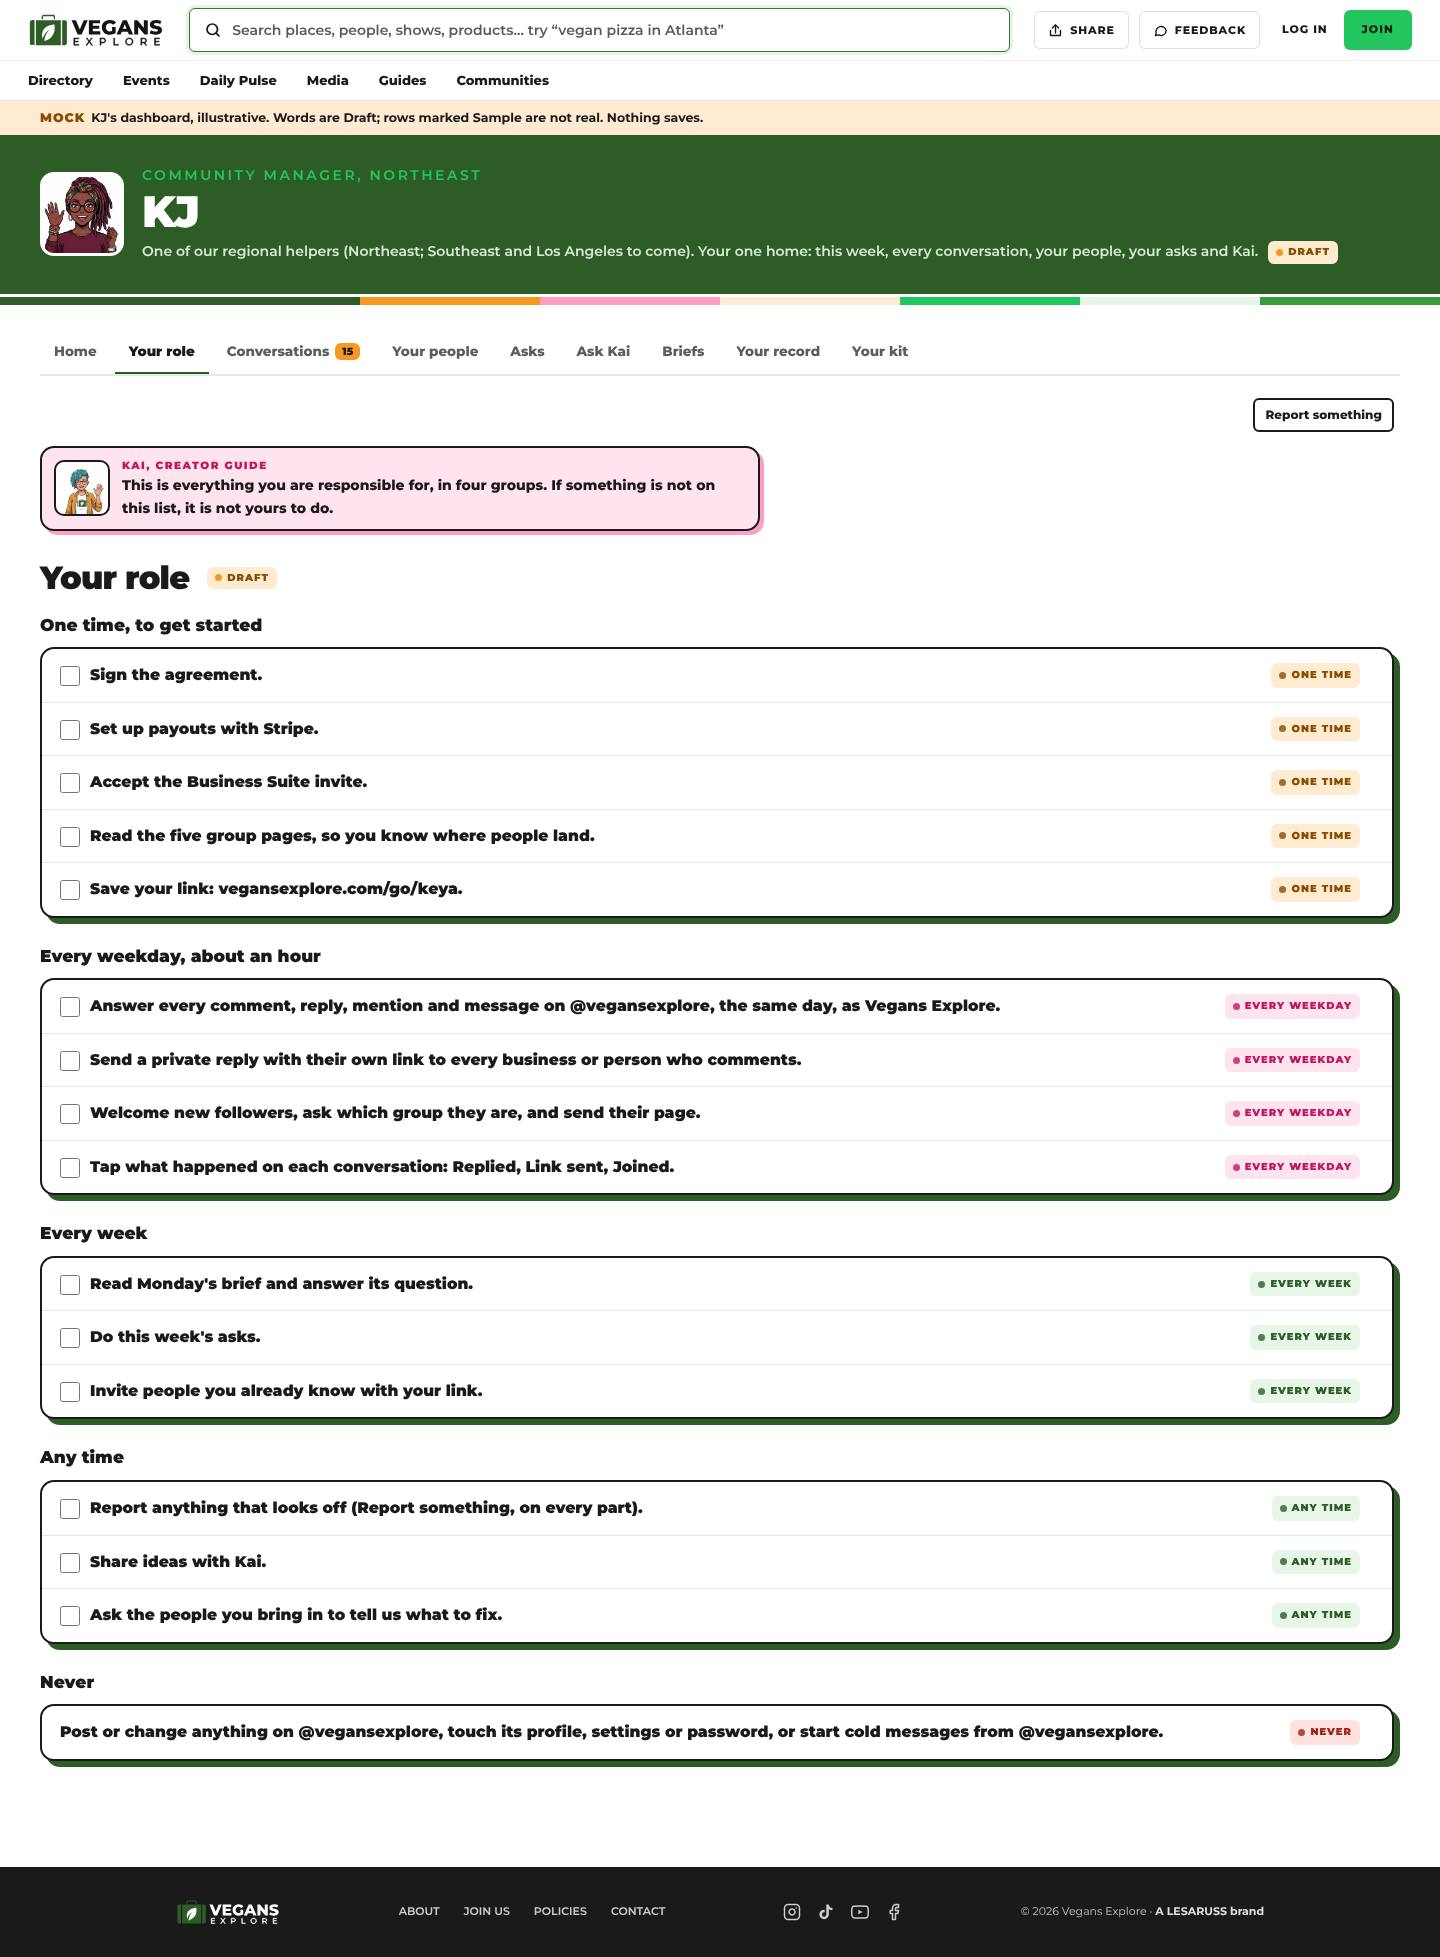
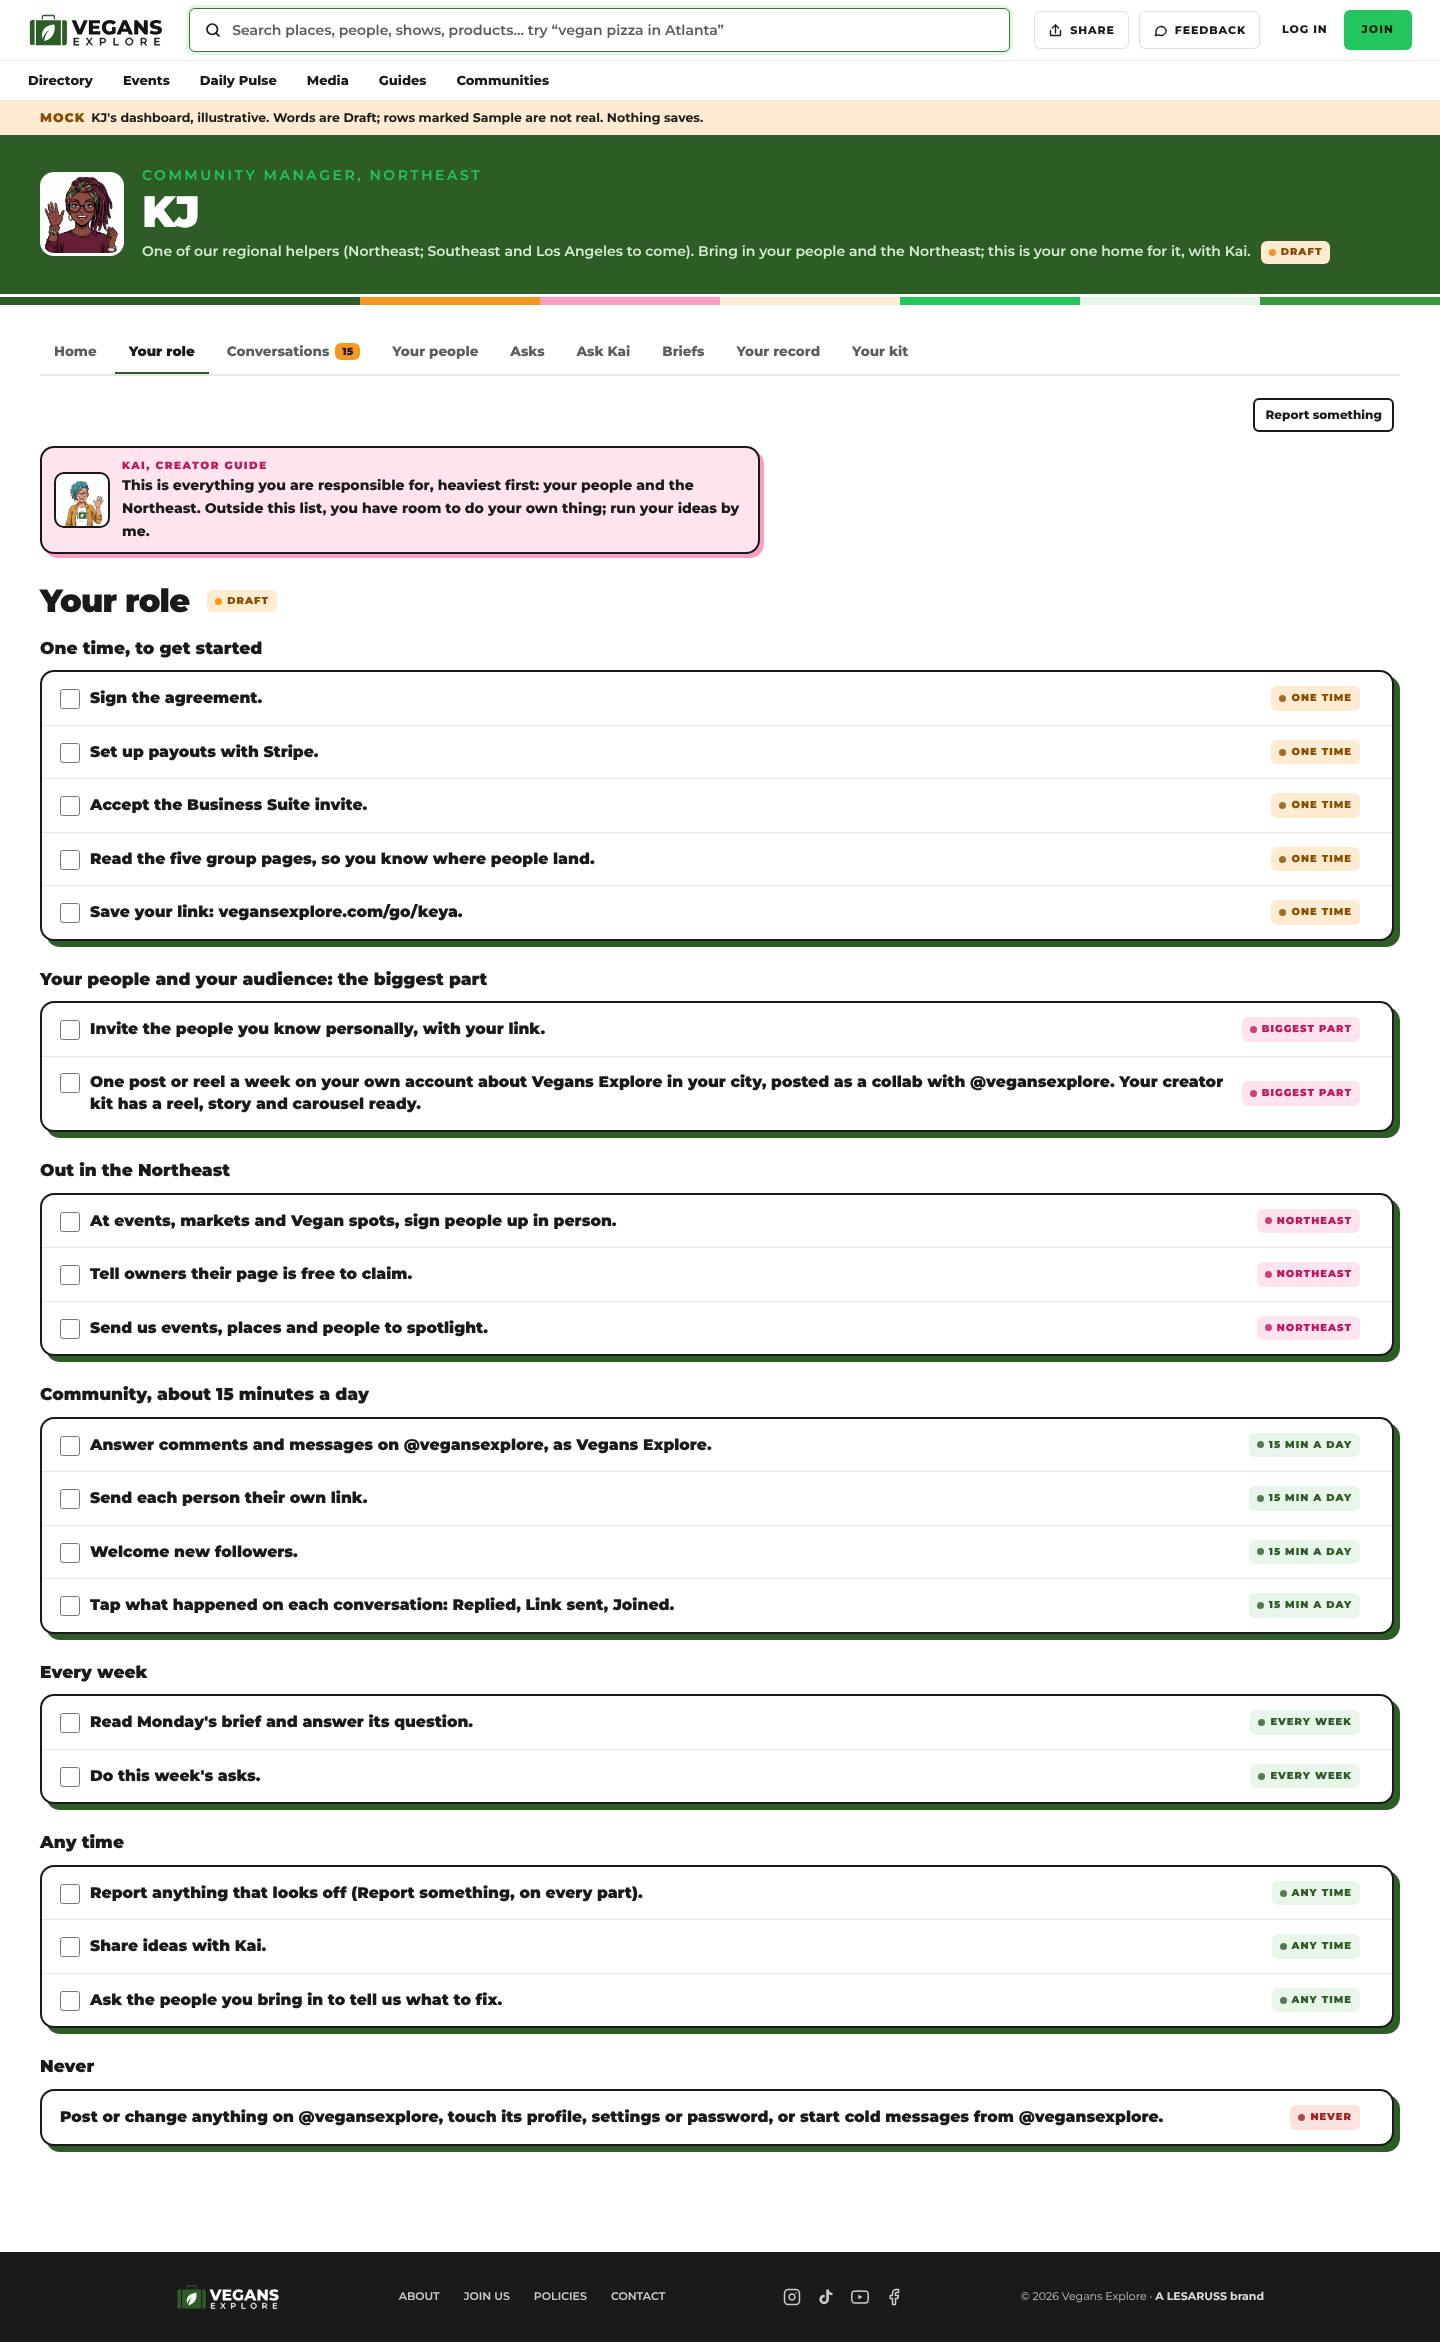
KJ dashboard mock: reweighted role (her people and the Northeast first), Philly Vegan Social Club ask
Claude-Session: https://claude.ai/code/session_016TNa9U5PLMRvMdYUFfu2NP

Changed region(s): [[0.0, 0.0, 1.0, 0.9974]]

diff --git a/mocks/kj-dashboard/index.html b/mocks/kj-dashboard/index.html
@@ -312,16 +312,16 @@
   var COPY = {
     eyebrow: 'Community Manager, Northeast',
     name: 'KJ',
-    line: 'One of our regional helpers (Northeast; Southeast and Los Angeles to come). Your one home: this week, every conversation, your people, your asks and Kai.',
+    line: 'One of our regional helpers (Northeast; Southeast and Los Angeles to come). Bring in your people and the Northeast; this is your one home for it, with Kai.',
     avatar: 'https://fwbhwfxpncrsfhttimna.supabase.co/storage/v1/object/public/vegan-media/media/people/keya-vegankween/avatar-geekfon-v3.jpg',
     tabs: [['home', 'Home'], ['role', 'Your role'], ['conversations', 'Conversations'], ['people', 'Your people'], ['asks', 'Asks'], ['ask', 'Ask Kai'], ['briefs', 'Briefs'], ['record', 'Your record'], ['kit', 'Your kit']],
     kai: {
-      home: 'Start with the brief, then today\'s conversations, then invite your own people with your link. See something off? Report it.',
+      home: 'Start with the brief, then your people and the Northeast. Keep @vegansexplore answered in about 15 minutes a day. See something off? Report it.',
       people: 'The people you already know are yours to invite, any way you like. Businesses and listings still go through @vegansexplore.',
       conversations: 'Everyone who commented, replied, mentioned us, wrote or followed. Answer as Vegans Explore, with their own link.',
       asks: 'What Sean wants this week. Outside these, you have room: if you spot an opening, take it, and tell us under Your ideas.',
       ask: 'Ask me anything. I answer what I can right away. If I am not sure, I check with Sean and come back to you here.',
-      role: 'This is everything you are responsible for, in four groups. Outside this list, you have room to do your own thing; run your ideas by me.',
+      role: 'This is everything you are responsible for, heaviest first: your people and the Northeast. Outside this list, you have room to do your own thing; run your ideas by me.',
       briefs: 'Every Monday: where we are, what is next, and a question for you.',
       record: 'Your taps are your record and your pay record.',
       kit: 'Everything you send people, ready to copy.'
@@ -330,8 +330,8 @@
       briefTitle: 'This week\'s brief: Monday, November 23',
       briefFrom: 'From Sean and Kai',
       where: 'We are at 84 members on the way to 250 by December 31. All five group pages are live, and every place in the Directory has its own link.',
-      next: 'Every post this week tags the places in it and asks a question. Catch every comment, reply and mention on @vegansexplore and turn the warm ones into members. And invite the people you already know with your own link.',
-      asks: ['Answer every comment on the city posts the same day.', 'Send a private reply with their link to every business that comments.', 'Invite ten people you know with your link, and ask them to tell us if anything looks off.'],
+      next: 'Your people and the Northeast come first: invite the people you know with your own link, post your first collab reel, and find where to sign people up in person. Keep @vegansexplore answered in about 15 minutes a day.',
+      asks: ['Invite ten people you know with your link, and ask them to tell us if anything looks off.', 'Post your first collab reel with @vegansexplore from your creator kit.', 'Tell us one Northeast event or market this month where you could sign people up.'],
       proudH: 'Proud of what you share',
       proud: 'We are building this platform with the people we bring in. If anything looks off, tell us and we fix it right away: tap Report something on any part of your dashboard. And ask the people you bring in to do the same; every page has a Feedback button.',
       question: 'Which kind of post gets the most comments from businesses so far, and why do you think that is?',
@@ -339,21 +339,23 @@
       goalH: 'The goal',
       goal: [['84', 'of 250 members', 'By Thu Dec 31, 11:59 PM Eastern. As of Nov 18.'], ['0', 'of 60 from your links', 'Members who joined through a link you sent.'], ['32', 'of 100 claimed', 'Listings claimed by their owners. As of Nov 18.']],
       todayH: 'Today at a glance',
-      today: [['6', 'New comments'], ['3', 'Replies to answer'], ['2', 'Mentions'], ['4', 'New followers']],
-      go: 'Open today\'s conversations'
+      today: [['0', 'Joined through your link', 'This week'], ['1', 'Collab post this week', 'Due Friday'], ['2', 'Northeast events this week', 'Philadelphia, Newark'], ['6', 'Comments to answer', 'About 15 minutes']],
+      go: 'Invite your people'
     },
     role: {
       h: 'Your role',
       groups: [
-        ['One time, to get started', 't-need', ['Sign the agreement.', 'Set up payouts with Stripe.', 'Accept the Business Suite invite.', 'Read the five group pages, so you know where people land.', 'Save your link: vegansexplore.com/go/keya.']],
-        ['Every weekday, about an hour', 't-new', ['Answer every comment, reply, mention and message on @vegansexplore, the same day, as Vegans Explore.', 'Send a private reply with their own link to every business or person who comments.', 'Welcome new followers, ask which group they are, and send their page.', 'Tap what happened on each conversation: Replied, Link sent, Joined.']],
-        ['Every week', 't-tip', ['Read Monday\'s brief and answer its question.', 'Do this week\'s asks.', 'Invite people you already know with your link.']],
-        ['Any time', 't-done', ['Report anything that looks off (Report something, on every part).', 'Share ideas with Kai.', 'Ask the people you bring in to tell us what to fix.']]
+        ['One time, to get started', 't-need', ['Sign the agreement.', 'Set up payouts with Stripe.', 'Accept the Business Suite invite.', 'Read the five group pages, so you know where people land.', 'Save your link: vegansexplore.com/go/keya.'], 'One time'],
+        ['Your people and your audience: the biggest part', 't-new', ['Invite the people you know personally, with your link.', 'One post or reel a week on your own account about Vegans Explore in your city, posted as a collab with @vegansexplore. Your creator kit has a reel, story and carousel ready.'], 'Biggest part'],
+        ['Out in the Northeast', 't-new', ['At events, markets and Vegan spots, sign people up in person.', 'Tell owners their page is free to claim.', 'Send us events, places and people to spotlight.'], 'Northeast'],
+        ['Community, about 15 minutes a day', 't-tip', ['Answer comments and messages on @vegansexplore, as Vegans Explore.', 'Send each person their own link.', 'Welcome new followers.', 'Tap what happened on each conversation: Replied, Link sent, Joined.'], '15 min a day'],
+        ['Every week', 't-tip', ['Read Monday\'s brief and answer its question.', 'Do this week\'s asks.'], 'Every week'],
+        ['Any time', 't-done', ['Report anything that looks off (Report something, on every part).', 'Share ideas with Kai.', 'Ask the people you bring in to tell us what to fix.'], 'Any time']
       ],
       neverH: 'Never',
       never: 'Post or change anything on @vegansexplore, touch its profile, settings or password, or start cold messages from @vegansexplore.',
       shortH: 'Your role, in short',
-      short: ['One time: agreement, Stripe payouts, Business Suite invite, the five group pages, your link.', 'Every weekday, about an hour: answer everything on @vegansexplore the same day, with their own link; welcome new followers; tap what happened.', 'Every week: the brief, the asks, invite your people.', 'Any time: report what looks off, share ideas with Kai.'],
+      short: ['One time: agreement, Stripe payouts, Business Suite invite, the five group pages, your link.', 'Your people and your audience, the biggest part: invite people you know with your link; one collab post or reel a week on your own account.', 'Out in the Northeast: sign people up at events, markets and Vegan spots; tell owners their page is free to claim; send us what to spotlight.', 'Community, about 15 minutes a day: answer @vegansexplore as Vegans Explore, with each person\'s link.', 'Every week: the brief and the asks. Any time: report what looks off, share ideas with Kai.'],
       more: 'See your whole role'
     },
     convo: {
@@ -385,8 +387,9 @@
     asks: {
       h: 'Sean\'s asks',
       items: [
+        { t: 'The Philly Vegan Social Club: do you run it, or are you part of it?', p: 'We would love it to be one of the first community groups on Vegans Explore. If you run it, Kai will walk you through what that looks like. If not, could you connect us with whoever does? Your reply goes to Kai.', link: '/directory/philly-vegan-social-club', due: 'any time' },
         { smp: true, t: 'Answer every comment on the Philadelphia city post', due: 'Mon Nov 23' },
-        { smp: true, t: 'Private reply with their link to every business that comments PAGE', due: 'Every day' },
+        { smp: true, t: 'Private reply with their link to every business that comments', due: 'Every day' },
         { smp: true, t: 'Find three Vegan creators in Philadelphia we should spotlight', due: 'Fri Nov 27' },
         { smp: true, t: 'Tell us one thing businesses keep asking', due: 'Fri Nov 27' }
       ],
@@ -467,13 +470,13 @@
         '<div class="card" style="--c:var(--pink)"><h3 style="margin:0 0 6px;font-size:19px;font-weight:900">' + esc(h.proudH) + D + '</h3><p style="font-size:14.5px;font-weight:600;line-height:1.55;margin:0;max-width:900px">' + esc(h.proud) + '</p></div>' +
         sec(COPY.role.shortH) + '<div class="rows need">' + COPY.role.short.map(function (t) { return '<div class="r"><div><b>' + esc(t) + '</b></div></div>'; }).join('') + '</div>' +
         '<p style="margin:0 0 22px"><a class="btn btn-sm" href="?tab=role">' + esc(COPY.role.more) + '</a></p>' +
-        '<a class="btn btn-go" href="?tab=conversations">' + esc(h.go) + '</a>';
+        '<a class="btn btn-go" href="?tab=people">' + esc(h.go) + '</a>';
     },
     role: function () {
       var r = COPY.role;
       return kai('role') + sec(r.h) + r.groups.map(function (g) {
         return '<h3 style="font-size:17px;font-weight:900;margin:18px 0 10px">' + esc(g[0]) + '</h3><div class="rows">' + g[2].map(function (t) {
-          return '<div class="r"><div class="chk"><input type="checkbox" aria-label="Done"><div><b>' + esc(t) + '</b></div></div><span class="tag ' + g[1] + '">' + esc(g[0].split(',')[0]) + '</span></div>';
+          return '<div class="r"><div class="chk"><input type="checkbox" aria-label="Done"><div><b>' + esc(t) + '</b></div></div><span class="tag ' + g[1] + '">' + esc(g[3] || g[0]) + '</span></div>';
         }).join('') + '</div>';
       }).join('') + '<h3 style="font-size:17px;font-weight:900;margin:18px 0 10px">' + esc(r.neverH) + '</h3><div class="rows"><div class="r"><div><b>' + esc(r.never) + '</b></div><span class="tag t-flag">Never</span></div></div>';
     },
@@ -497,7 +500,7 @@
     asks: function () {
       var a = COPY.asks;
       return kai('asks') + sec(a.h) + '<div class="rows need">' + a.items.map(function (i) {
-        return '<div class="r"><div class="chk"><input type="checkbox" aria-label="Done"><div><b>' + esc(i.t) + (i.smp ? S : '') + '</b><p>Due ' + esc(i.due) + '</p></div></div><span class="tag t-need">To do</span><button type="button" class="btn btn-sm">Ask Kai</button></div>';
+        return '<div class="r"><div class="chk"><input type="checkbox" aria-label="Done"><div><b>' + esc(i.t) + (i.smp ? S : '') + '</b><p' + (i.p ? ' style="display:block;-webkit-line-clamp:unset;overflow:visible"' : '') + '>' + (i.p ? esc(i.p) + ' ' : '') + (i.link ? '<a href="' + esc(i.link) + '" target="_blank" rel="noopener">See its page</a>. ' : '') + 'Due ' + esc(i.due) + '</p></div></div><span class="tag t-need">To do</span><button type="button" class="btn btn-sm">' + (i.link ? 'Reply to Kai' : 'Ask Kai') + '</button></div>';
       }).join('') + '</div>' + sec(a.ideasH) + '<p class="lede">' + esc(a.ideasLede) + '</p><textarea class="ta" aria-label="Your idea"></textarea><button type="button" class="btn btn-go">' + esc(a.ideasBtn) + '</button>';
     },
     ask: function () {
